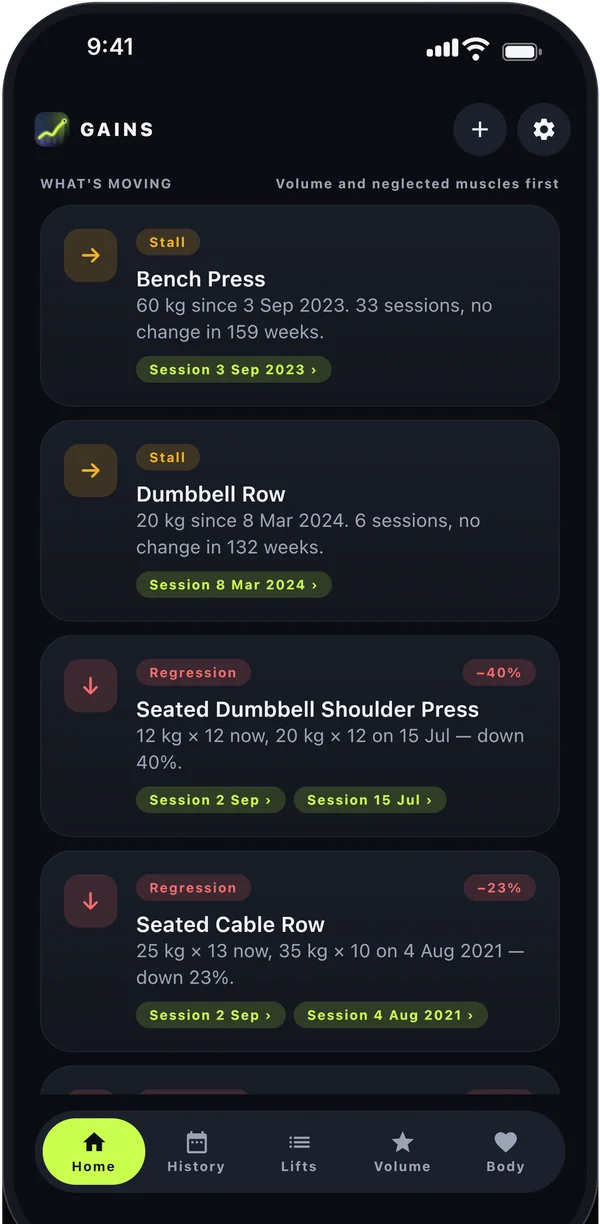
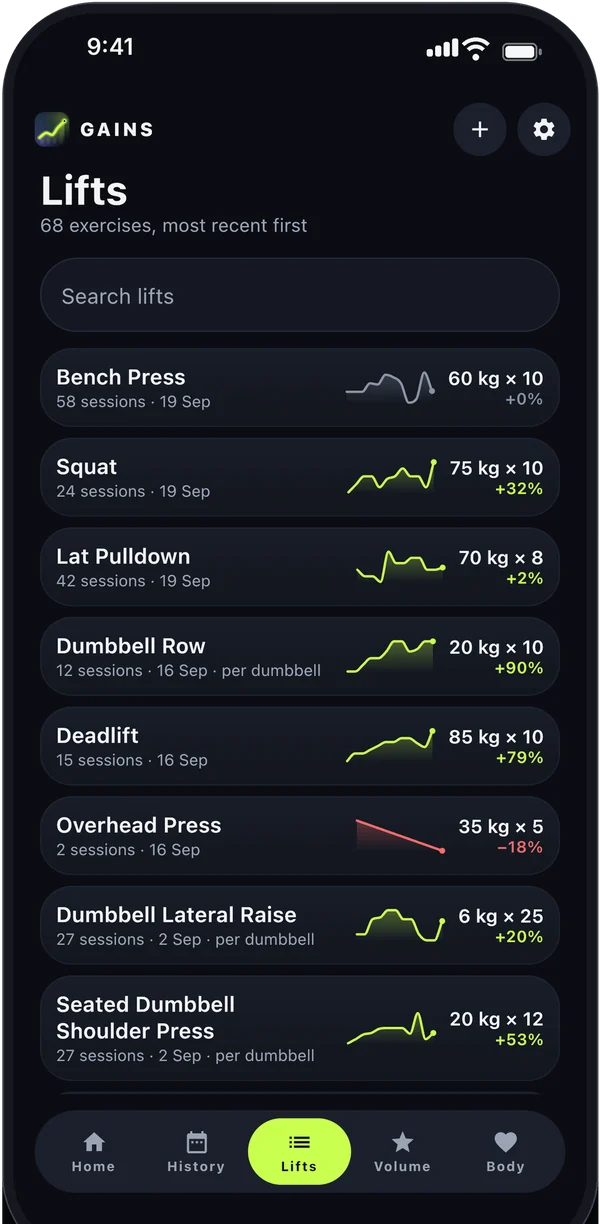
Site: hero phone shows the Lifts screen
Every lift with a sparkline and a green or red % change says
"climbing, stalled, slipping" more directly than the stalls list,
and no longer repeats the gallery's first shot as prominently.

Claude-Session: https://claude.ai/code/session_0117GJbnYZ39p7wwvK95iKGs

diff --git a/site/index.html b/site/index.html
@@ -41,7 +41,7 @@
         </div>
         <p class="note">The beta needs iOS 16 or later and Apple's TestFlight app.</p>
       </div>
-      <img class="hero-phone" src="/img/hero.webp" alt="The Gains home screen: stalls and regressions flagged across every lift" width="600" height="1224">
+      <img class="hero-phone" src="/img/hero.webp" alt="The Lifts screen: every lift with its trend and % change" width="600" height="1224">
     </div>
 
     <section>
